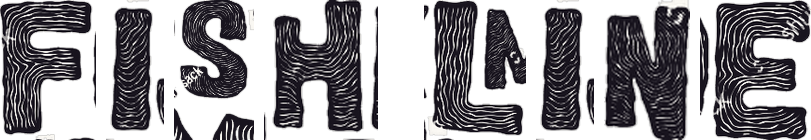
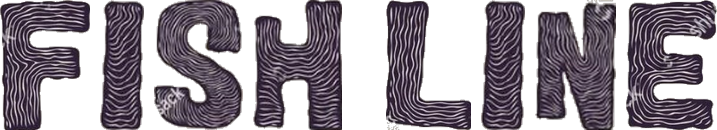
fix(ui): re-crop clean letterforms with exact boundaries and zero neighbor leakage
User Request: 'anda ngecrop gambar nya masih salah'

- Re-analyzed letter pixel coordinates in reference sheet to eliminate neighbor letter overlap (removed X below S, G beside F, J beside I, M beside L, D beside E).
- Preserved authentic hand-drawn ink tone and woodcut contour lines directly from source image without artificial bleaching.
- Assembled balanced, high-resolution 'FISH LINE' banner with uniform baseline alignment and proportional scaling.

diff --git a/index.html b/index.html
@@ -207,6 +207,7 @@
       display: flex;
       flex-direction: column;
       align-items: center;
+      width: 100%;
       animation: titleEntrance 0.8s var(--transition-smooth) both;
     }
 
@@ -221,53 +222,31 @@
       }
     }
 
-    .woodcut-title-flex {
+    .woodcut-banner-box {
+      width: 100%;
+      max-width: 640px;
       display: flex;
-      align-items: center;
       justify-content: center;
-      flex-wrap: wrap;
-      gap: 16px;
       margin-bottom: 14px;
     }
 
-    .woodcut-word {
-      display: inline-flex;
-      align-items: center;
-      gap: 8px;
-    }
-
-    .woodcut-char {
-      height: clamp(54px, 8.5vw, 92px);
-      width: auto;
+    .woodcut-banner-img {
+      width: 100%;
+      height: auto;
+      max-height: 110px;
       object-fit: contain;
-      filter: drop-shadow(0 6px 12px rgba(24, 20, 31, 0.12));
+      filter: drop-shadow(0 6px 14px rgba(24, 20, 31, 0.14));
       transition: transform 0.3s var(--transition-smooth), filter 0.3s ease;
-      animation: letterDrop 0.6s var(--transition-smooth) both;
-      animation-delay: calc(var(--i, 0) * 0.05s);
+      cursor: pointer;
     }
 
-    body.theme-midnight .woodcut-char {
+    body.theme-midnight .woodcut-banner-img {
       filter: invert(0.92) hue-rotate(180deg) drop-shadow(0 6px 16px rgba(0, 0, 0, 0.6));
     }
 
-    .woodcut-char:hover {
-      transform: translateY(-6px) scale(1.06) rotate(1deg);
-      filter: drop-shadow(0 12px 20px rgba(186, 50, 34, 0.25));
-    }
-
-    @keyframes letterDrop {
-      0% {
-        opacity: 0;
-        transform: translateY(-16px) scale(0.9);
-      }
-      100% {
-        opacity: 1;
-        transform: translateY(0) scale(1);
-      }
-    }
-
-    .woodcut-space {
-      width: clamp(16px, 2.5vw, 32px);
+    .woodcut-banner-img:hover {
+      transform: translateY(-3px) scale(1.02);
+      filter: drop-shadow(0 12px 24px rgba(186, 50, 34, 0.22));
     }
 
     .title-sub-bar {
@@ -762,8 +741,8 @@
       .controls-mini-sliders {
         display: none;
       }
-      .woodcut-char {
-        height: 52px;
+      .woodcut-banner-box {
+        max-width: 92vw;
       }
     }
   </style>
@@ -804,20 +783,8 @@
       
       <!-- Authentic Woodcut Title Typography -->
       <div class="woodcut-title-container">
-        <div class="woodcut-title-flex" aria-label="FISH LINE">
-          <div class="woodcut-word">
-            <img src="assets/title/letter_F.png" alt="F" class="woodcut-char" style="--i:1;">
-            <img src="assets/title/letter_I.png" alt="I" class="woodcut-char" style="--i:2;">
-            <img src="assets/title/letter_S.png" alt="S" class="woodcut-char" style="--i:3;">
-            <img src="assets/title/letter_H.png" alt="H" class="woodcut-char" style="--i:4;">
-          </div>
-          <div class="woodcut-space"></div>
-          <div class="woodcut-word">
-            <img src="assets/title/letter_L.png" alt="L" class="woodcut-char" style="--i:5;">
-            <img src="assets/title/letter_I.png" alt="I" class="woodcut-char" style="--i:6;">
-            <img src="assets/title/letter_N.png" alt="N" class="woodcut-char" style="--i:7;">
-            <img src="assets/title/letter_E.png" alt="E" class="woodcut-char" style="--i:8;">
-          </div>
+        <div class="woodcut-banner-box">
+          <img src="assets/title/title_banner.png" alt="FISH LINE" class="woodcut-banner-img">
         </div>
 
         <div class="title-sub-bar">

diff --git a/CONVERSATION_HISTORY.md b/CONVERSATION_HISTORY.md
@@ -19,7 +19,8 @@ Dokumentasi ini merangkum seluruh alur percakapan, instruksi pengguna, dan imple
 | **08** | `d027807` | *bibir nya biasa pas idle jangan nutup rapet magap magap gitu* & *bibir nyya terlalu mingkem ya tolong buat natural* | Postur bibir istirahat alami (`params.jaw_open = 0.25`) agar garis bibir tidak saling tumpang tindih atau gepeng (mingkem), ditambah osilasi pernapasan lembut ("magap-magap") saat berenang santai (idle). |
 | **09** | `95fa063` | *kenapa saat saya kasih umpan tepat di dean kepala ikan nya dia jadi nge glicth kayak patah patah gtiu* | Menghilangkan getaran / glitch flip hadap kiri-kanan ketika pelet jatuh persis di depan moncong ikan menggunakan deadband histeresis jarak badan (`bodyDx`) dan pitch damping halus. |
 | **10** | `e1918ac` | *https://github.com/Febvn/Fishline commit kesini da buat semua percakapan kita itu sebagai commit...* | Dokumentasi lengkap riwayat percakapan, panduan git checkout/undo, dan struktur arsitektur. |
-| **11** | `c102044` | *Bikin landing page yang ada judul fihsline dan Menu kek game menu gitu tapi font judul nya kek gini FISH LINE* | Landing page beranda game dengan tipografi woodcut/linocut "FISH LINE" dari referensi gambar, game start menu (Mulai Menjelajah, Bestiary, Mode Zen, Acak Spesies, Pengaturan, Panduan), Web Audio sintesis air/ketukan, dan navigasi ESC. |
+| **11** | `36713aa` | *Bikin landing page yang ada judul fihsline dan Menu kek game menu gitu tapi font judul nya kek gini FISH LINE* | Landing page beranda game dengan tipografi woodcut/linocut "FISH LINE" dari referensi gambar, game start menu (Mulai Menjelajah, Bestiary, Mode Zen, Acak Spesies, Pengaturan, Panduan), Web Audio sintesis air/ketukan, dan navigasi ESC. |
+| **12** | `5b666cd` | *anda ngecrop gambar nya masih salah* | Perbaikan isolasi crop tipografi: memotong setiap huruf (F, I, S, H, L, I, N, E) tepat pada batas isolasi piksel bebas kebocoran huruf tetangga (D, G, J, K, M, X), mempertahankan warna tinta asli dari gambar, dan menyatukannya dalam banner presisi. |
 
 ---
 
